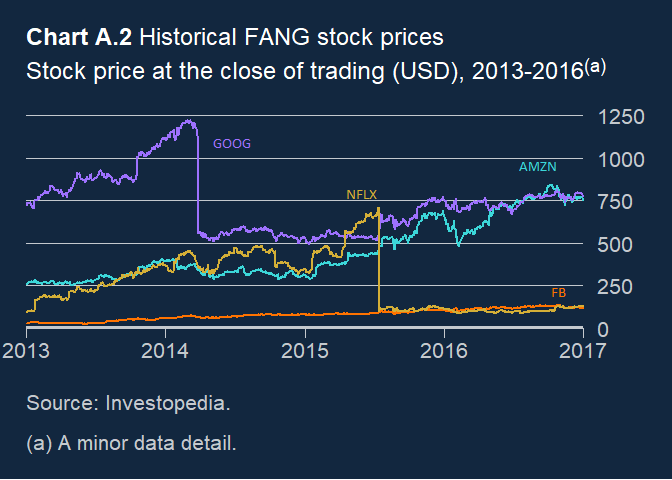
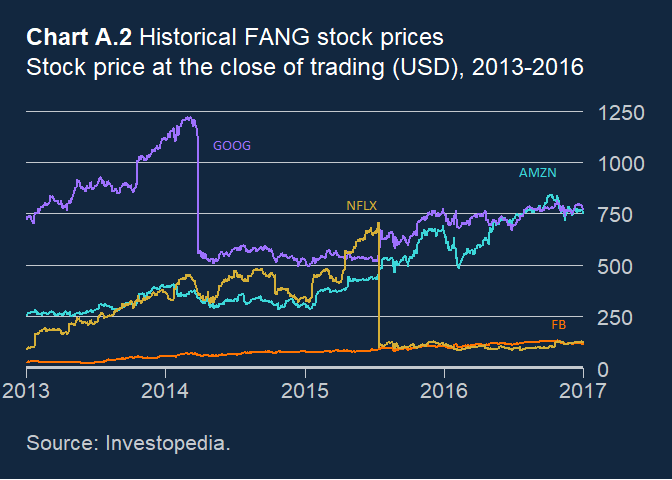
add sep to caption source helper

diff --git a/README.md b/README.md
@@ -192,8 +192,8 @@ chart +
   theme_boe_identity_md() +
   labs(
     title = "**Chart A.2** Historical FANG stock prices",
-    subtitle = 'Stock price at the close of trading (USD), 2013-2016<sup>(a)</sup>',
-    caption = caption_boe(source = "Investopedia", footnote = "A minor data detail.")
+    subtitle = "Stock price at the close of trading (USD), 2013-2016",
+    caption = caption_boe(source = "Investopedia")
     )
 ```
 
